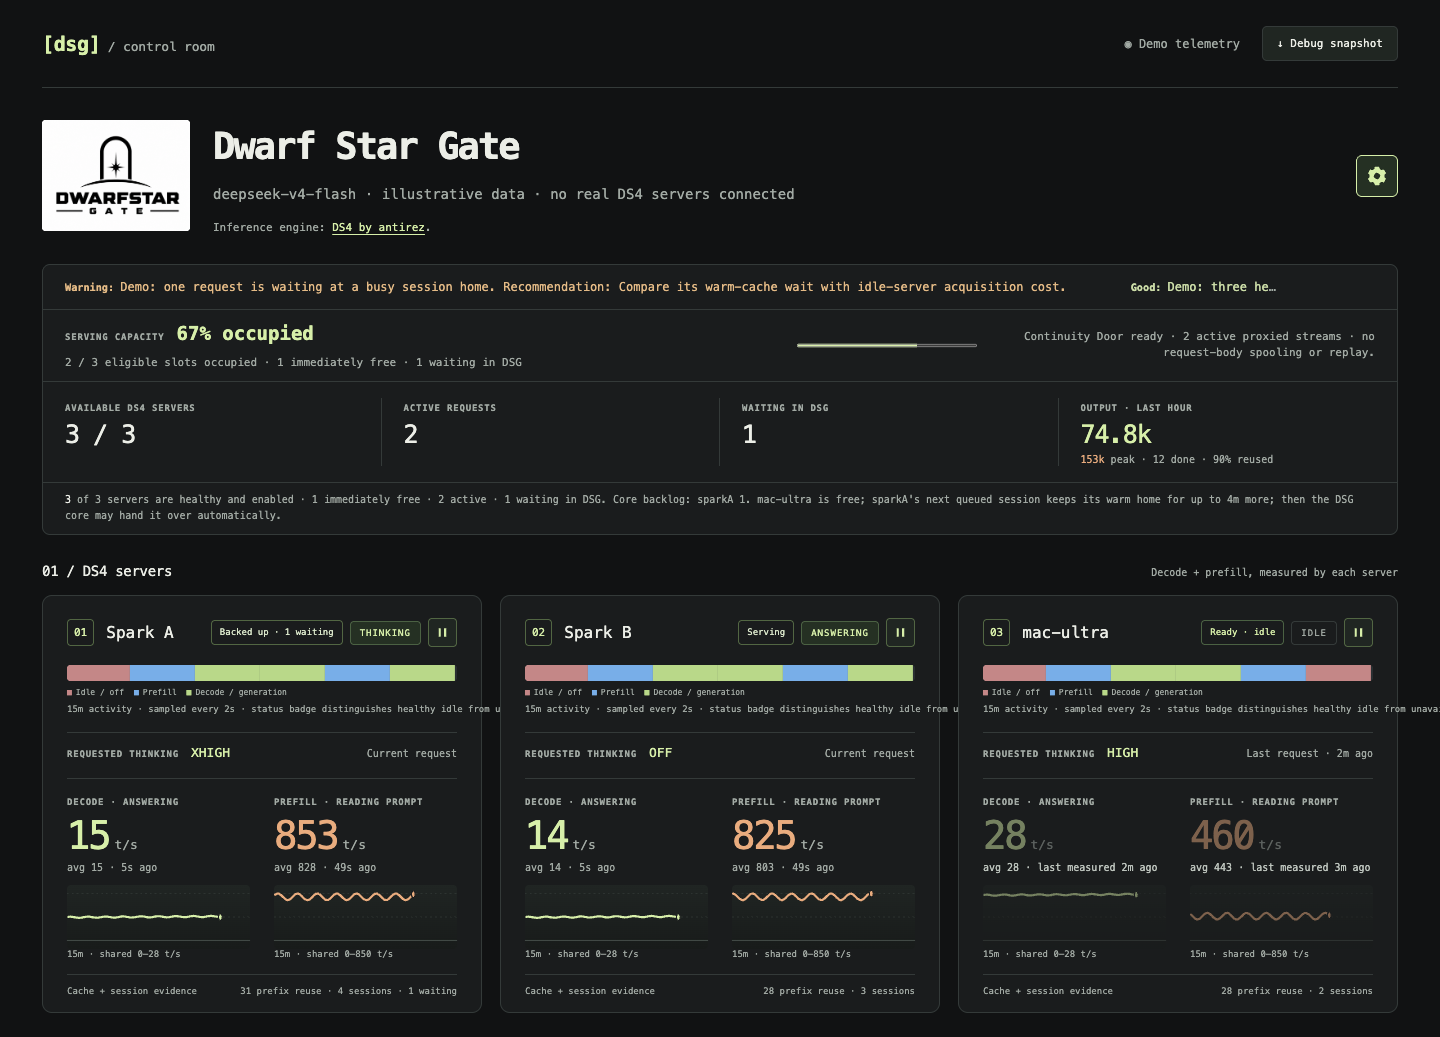
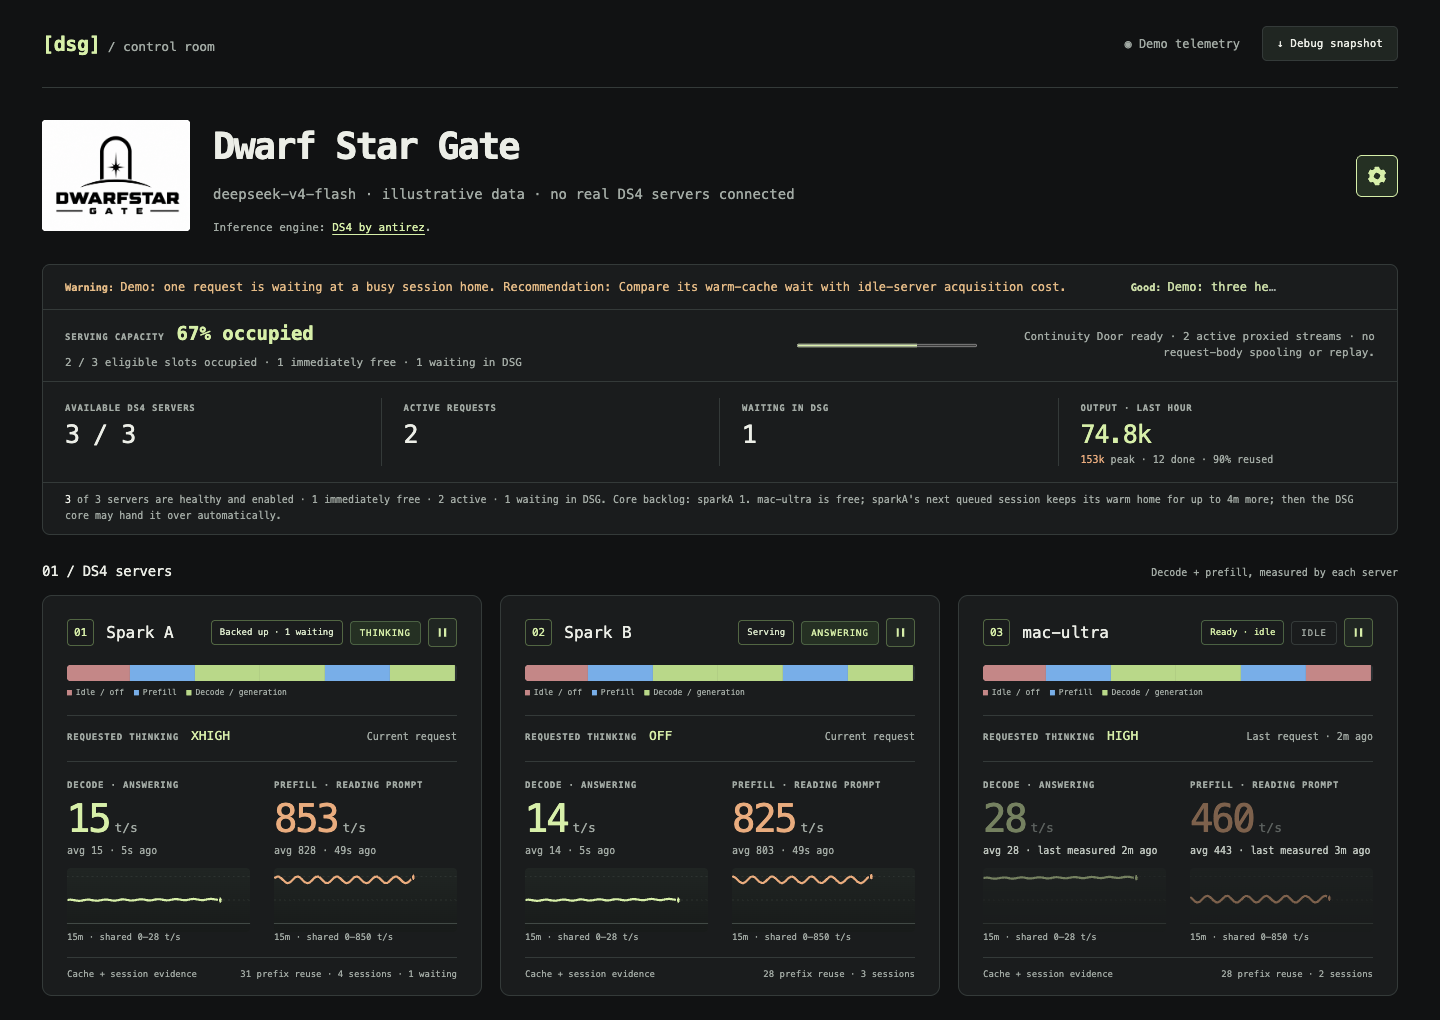
Tighten server activity cards

diff --git a/ds4-gateway/ui/ui.js b/ds4-gateway/ui/ui.js
@@ -159,7 +159,7 @@ function timeline(d,now) {
   return `<svg class="activity-timeline" viewBox="0 0 100 10" preserveAspectRatio="none" role="img" aria-label="Observed activity over the last fifteen minutes: blue is prefill, green is decode or generation, red is idle or off, and dark gaps are unknown telemetry">${rows.map(r=>{
     const left=Math.max(start,r.start),right=Math.min(now,r.end),width=Math.max(0,(right-left)/9000);
     return `<rect class="phase-${band(r.phase)}" x="${Math.max(0,(left-start)/9000)}" width="${width}" height="10"><title>${esc(r.phase)} · ${Math.round((right-left)/1000)}s</title></rect>`;
-  }).join('')}</svg><div class="phase-legend"><span class="idle-off">Idle / off</span><span class="prefill">Prefill</span><span class="decode">Decode / generation</span></div><div class="chart-caption">15m activity · sampled every 2s · status badge distinguishes healthy idle from unavailable · dark gaps are unknown telemetry</div>`;
+  }).join('')}</svg><div class="phase-legend"><span class="idle-off">Idle / off</span><span class="prefill">Prefill</span><span class="decode">Decode / generation</span></div>`;
 }
 function routingInfo(w,{stale=false,recovering=false}={}) {
   if(stale||!w)return {level:'unknown',label:'STATUS UNKNOWN',detail:'Live gateway status is unavailable. Routing controls are disabled until it returns.',action:null};
